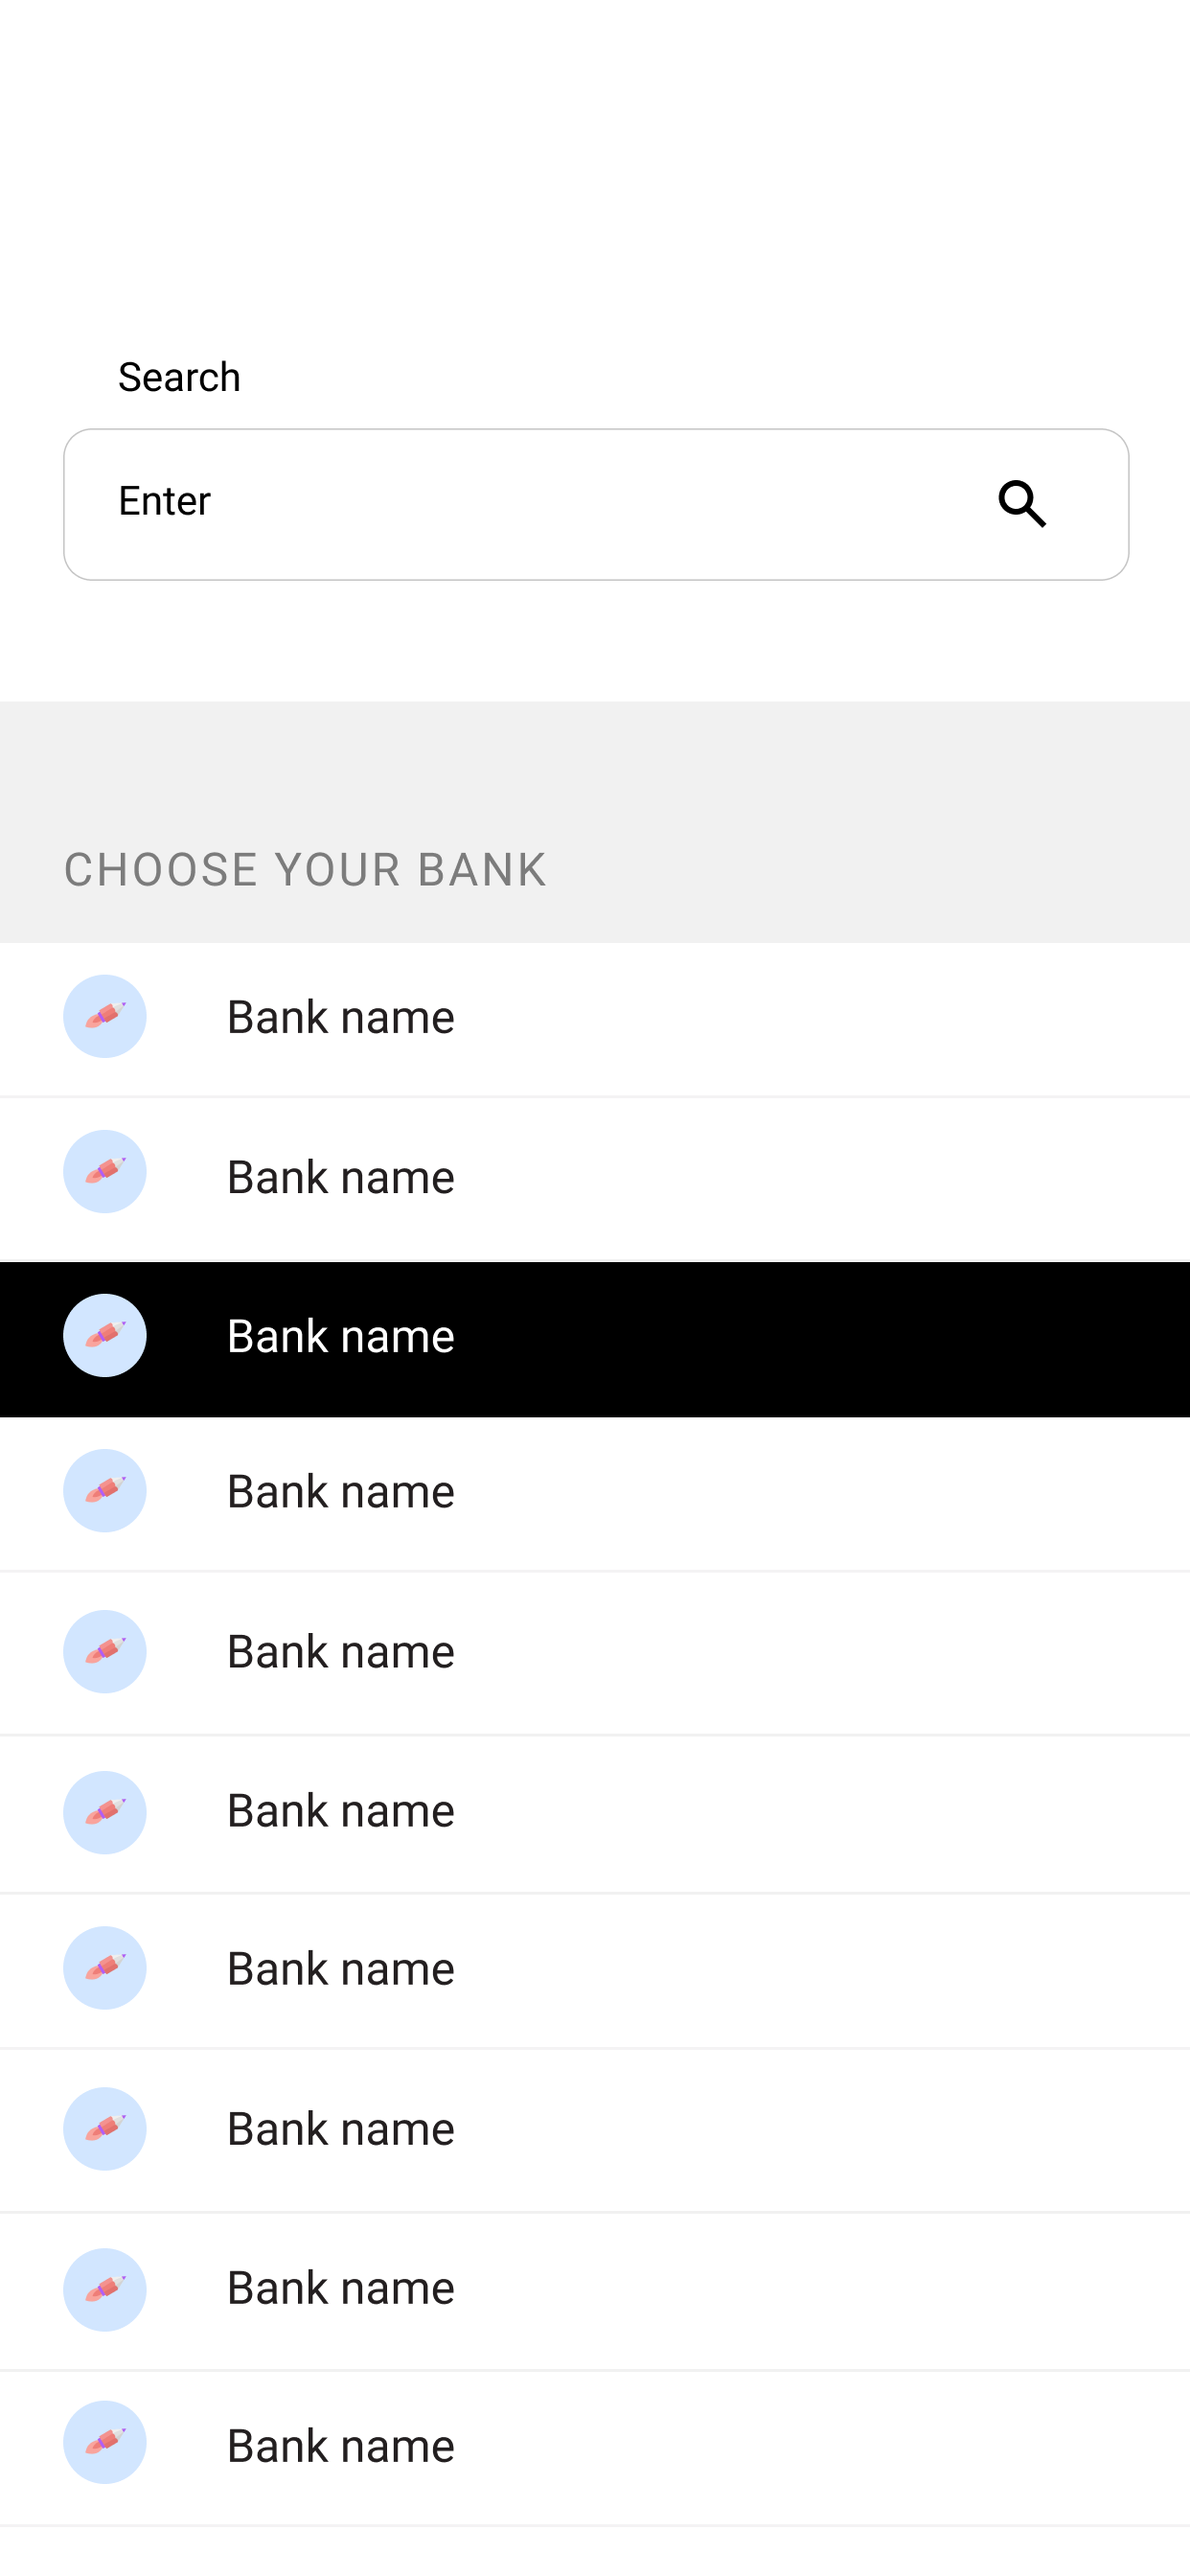
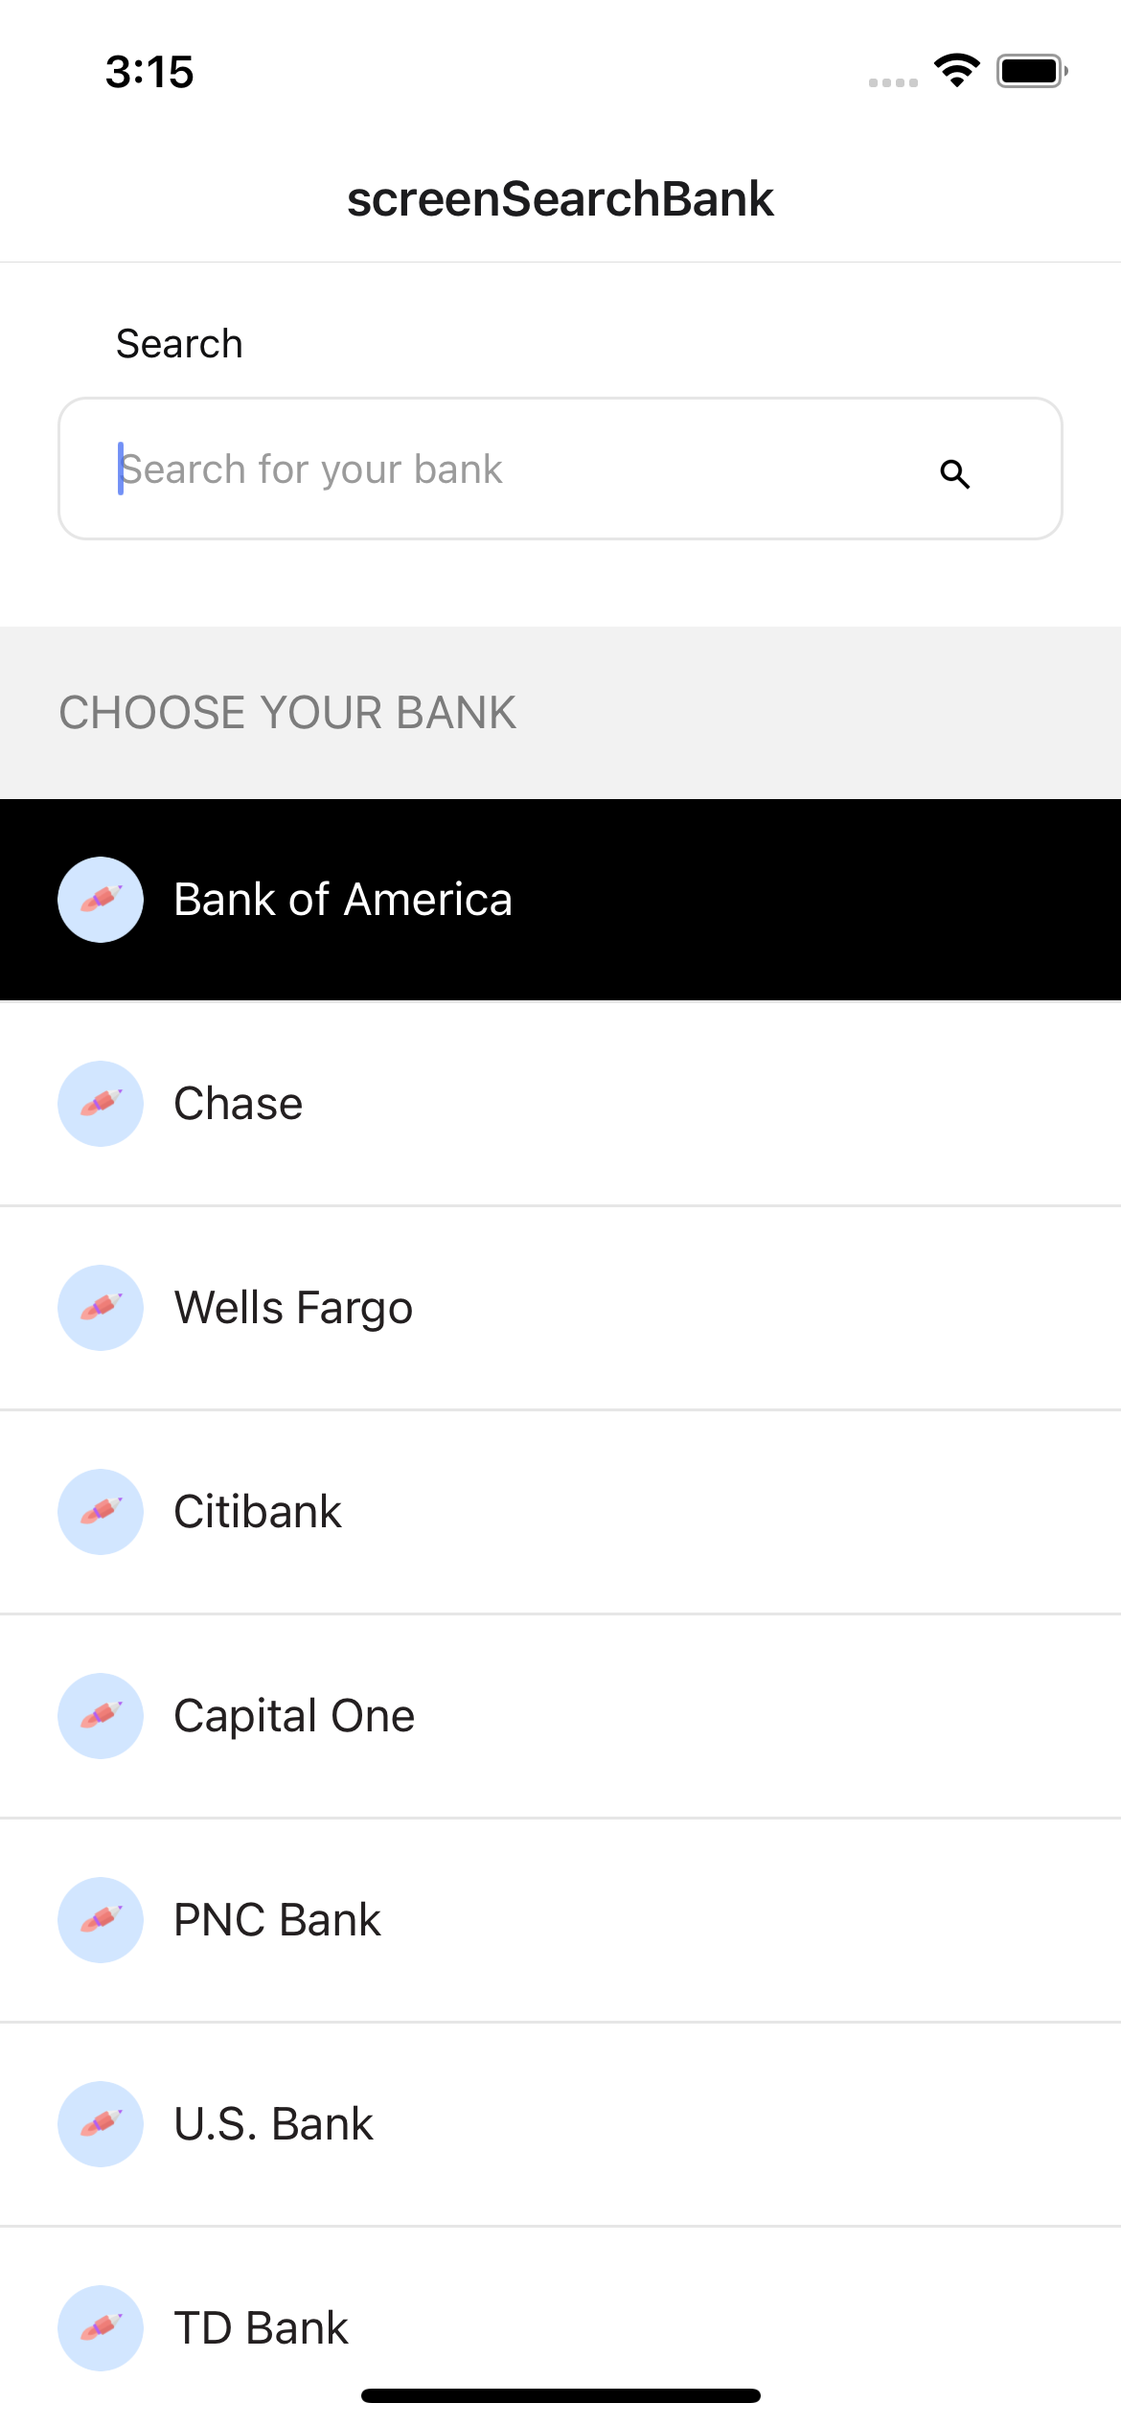
search bank screen added

diff --git a/screens/screen-search-bank/index.js b/screens/screen-search-bank/index.js
@@ -1,14 +1,116 @@
-import React from "react";
+import React, { useState, useEffect, useCallback } from "react";
 import {
   Text,
   View,
-  StyleSheet
+  StyleSheet,
+  Image,
+  TextInput,
+  FlatList,
+  Pressable
 } from "react-native";
 
 const SearchBank = () => {
+  const [searchText, setSearchText] = useState("");
+  const [searchResults, setSearchResults] = useState([]);
+  const [banks, setBanks] = useState([]);
+  const [selectedBank, setSelectedBank] = useState(null);
+  useEffect(() => {
+    setBanks([
+      {
+        name: "Bank of America",
+        id: "1",
+        image: require("./assets/bankImage.png")
+      },
+      {
+        name: "Chase",
+        id: "2",
+        image: require("./assets/bankImage.png")
+      },
+      {
+        name: "Wells Fargo",
+        id: "3",
+        image: require("./assets/bankImage.png")
+      },
+      {
+        name: "Citibank",
+        id: "4",
+        image: require("./assets/bankImage.png")
+      },
+      {
+        name: "Capital One",
+        id: "5",
+        image: require("./assets/bankImage.png")
+      },
+      {
+        name: "PNC Bank",
+        id: "6",
+        image: require("./assets/bankImage.png")
+      },
+      {
+        name: "U.S. Bank",
+        id: "7",
+        image: require("./assets/bankImage.png")
+      },
+      {
+        name: "TD Bank",
+        id: "8",
+        image: require("./assets/bankImage.png")
+      },
+      {
+        name: "BB&T",
+        id: "9",
+        image: require("./assets/bankImage.png")
+      }
+    ]);
+  }, []);
+  const searchBanks = useCallback(
+    x => {
+      setSearchText(x);
+      if (x.length > 0) {
+        const results = banks.filter(bank => {
+          return bank.name.toLowerCase().includes(x.toLowerCase());
+        });
+        setSearchResults(results);
+      } else {
+        setSearchResults([]);
+      }
+    },
+    [banks]
+  );
   return (
     <View style={styles.container}>
-      <Text style={styles.heading}>Search Bank</Text>
+      <Input
+        text="Search"
+        placeholder="Search for your bank"
+        value={searchText}
+        onChangeText={searchBanks}
+        containerStyle={styles.inputContainer}
+        icon={require("./assets/searchIcon.png")}
+      />
+      <View style={styles.separator}>
+        <Text style={styles.separatorText}>Choose your bank</Text>
+      </View>
+      <FlatList
+        data={searchResults.length > 0 ? searchResults : banks}
+        renderItem={({ item }) => (
+          <Pressable
+            style={[
+              styles.bankItem,
+              item === selectedBank && styles.selectedBank
+            ]}
+            onPress={() => setSelectedBank(item)}>
+            <Image source={item.image} style={styles.bankImage} />
+            <Text
+              style={[
+                styles.bankName,
+                item === selectedBank && styles.selectedBank
+              ]}>
+              {item.name}
+            </Text>
+          </Pressable>
+        )}
+        keyExtractor={item => item.id}
+      />
     </View>
   );
 };
@@ -19,7 +121,114 @@ const styles = StyleSheet.create({
   },
   heading: {
     fontSize: 20
+  },
+  inputContainer: {
+    margin: 20
+  },
+  separator: {
+    backgroundColor: "#F2F2F2",
+    height: 60,
+    justifyContent: "center",
+    paddingLeft: 20
+  },
+  separatorText: {
+    color: "#7C7C7C",
+    fontSize: 16,
+    textTransform: "uppercase"
+  },
+  bankItem: {
+    flexDirection: "row",
+    alignItems: "center",
+    padding: 20,
+    borderBottomColor: "#e6e6e6",
+    borderBottomWidth: 1
+  },
+  bankImage: {
+    width: 30,
+    height: 30,
+    marginRight: 10,
+    borderRadius: 15
+  },
+  bankName: {
+    fontSize: 16,
+    color: "#231F20"
+  },
+  selectedBank: {
+    backgroundColor: "#000",
+    color: "#fff"
   }
 });
 
 export default SearchBank;
+
+const Input = props => {
+  return (
+    <View style={[inputStyles.inputContainer, props.containerStyle]}>
+      {props.text ? (
+        <Text style={inputStyles.inputText}>{props.text}</Text>
+      ) : null}
+
+      <TextInput
+        style={[
+          inputStyles.input,
+          props.style,
+          props.textArea ? inputStyles.textArea : null
+        ]}
+        placeholder={props.placeholder ? props.placeholder : "Enter"}
+        value={props.value}
+        onChangeText={text => props.onChangeText(text)}
+        placeholderTextColor={
+          props.placeholderTextColor ? props.placeholderTextColor : "#9B9B9B"
+        }
+        editable={props.editable !== false}
+        autoCapitalize="none"
+        autoCorrect={false}
+        multiline={props.textArea ? true : false}
+        backgroundColor={props.backgroundColor}
+        secureTextEntry={props.secureTextEntry}
+      />
+      {props.errorText ? (
+        <Text style={inputStyles.error}>{props.errorText}</Text>
+      ) : null}
+      {props.icon ? (
+        <Image source={props.icon} style={inputStyles.iconWithText} />
+      ) : null}
+      <View style={styles.children}>{props.children}</View>
+    </View>
+  );
+};
+
+const inputStyles = StyleSheet.create({
+  inputContainer: {
+    flexDirection: "column",
+    justifyContent: "center"
+  },
+  inputText: {
+    fontSize: 14,
+    marginLeft: 20,
+    color: "#111112"
+  },
+  input: {
+    borderWidth: 1,
+    borderColor: "#e6e6e6",
+    borderRadius: 10,
+    padding: 10,
+    paddingLeft: 20,
+    marginVertical: 10,
+    width: "100%",
+    height: 50,
+    color: "#000"
+  },
+  iconWithText: {
+    position: "absolute",
+    right: 30,
+    bottom: 25,
+    width: 15,
+    height: 15,
+    resizeMode: "contain"
+  },
+  textArea: {
+    height: 150
+  },
+  children: {}
+});

diff --git a/modules/index.js b/modules/index.js
@@ -2,7 +2,7 @@ import mods from "./*/index.js";
 import { getModules } from "./modules.js";
 
 export const modules = getModules(mods);
-export const initialRoute = "screenRequestAccess";
+export const initialRoute = "screenSearchBank";
 // export const initialRoute = modules[0].value.title;
 export const slices = modules
   .filter(mod => mod.value.slice)
